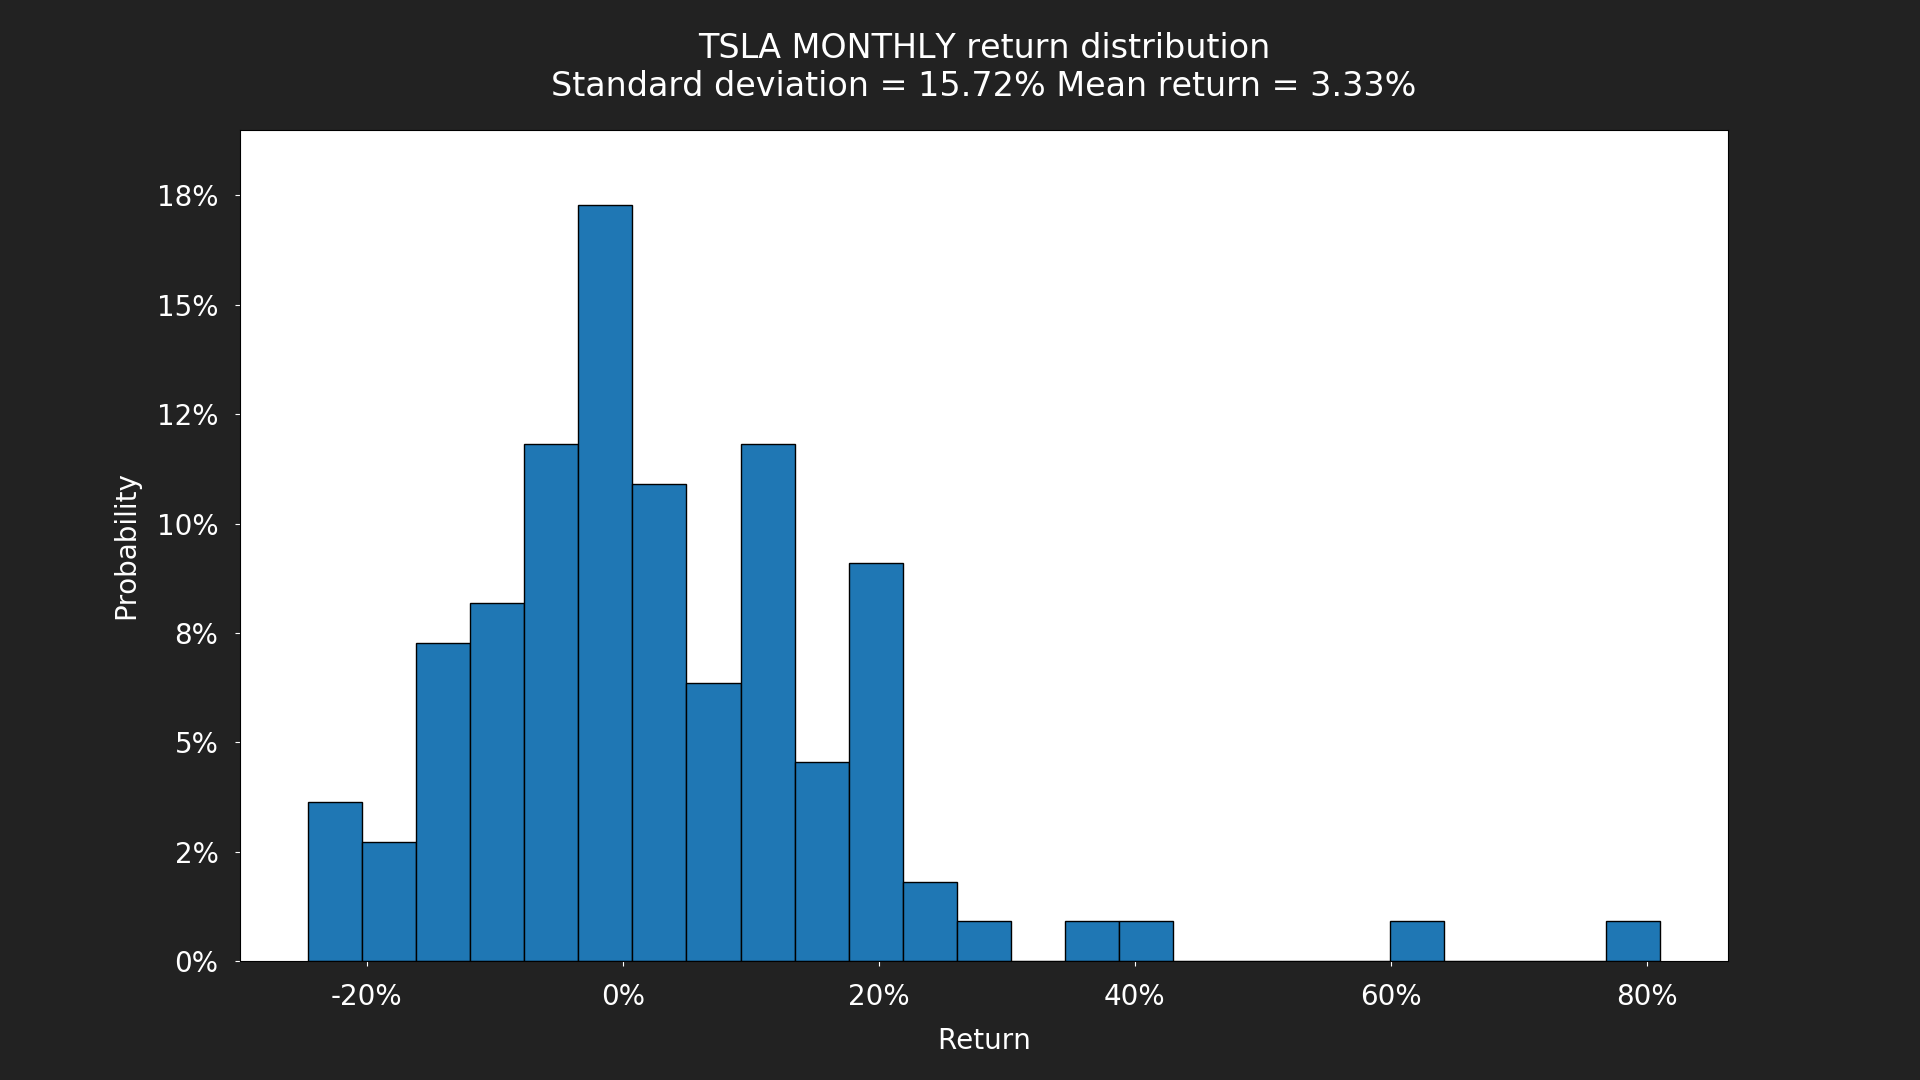
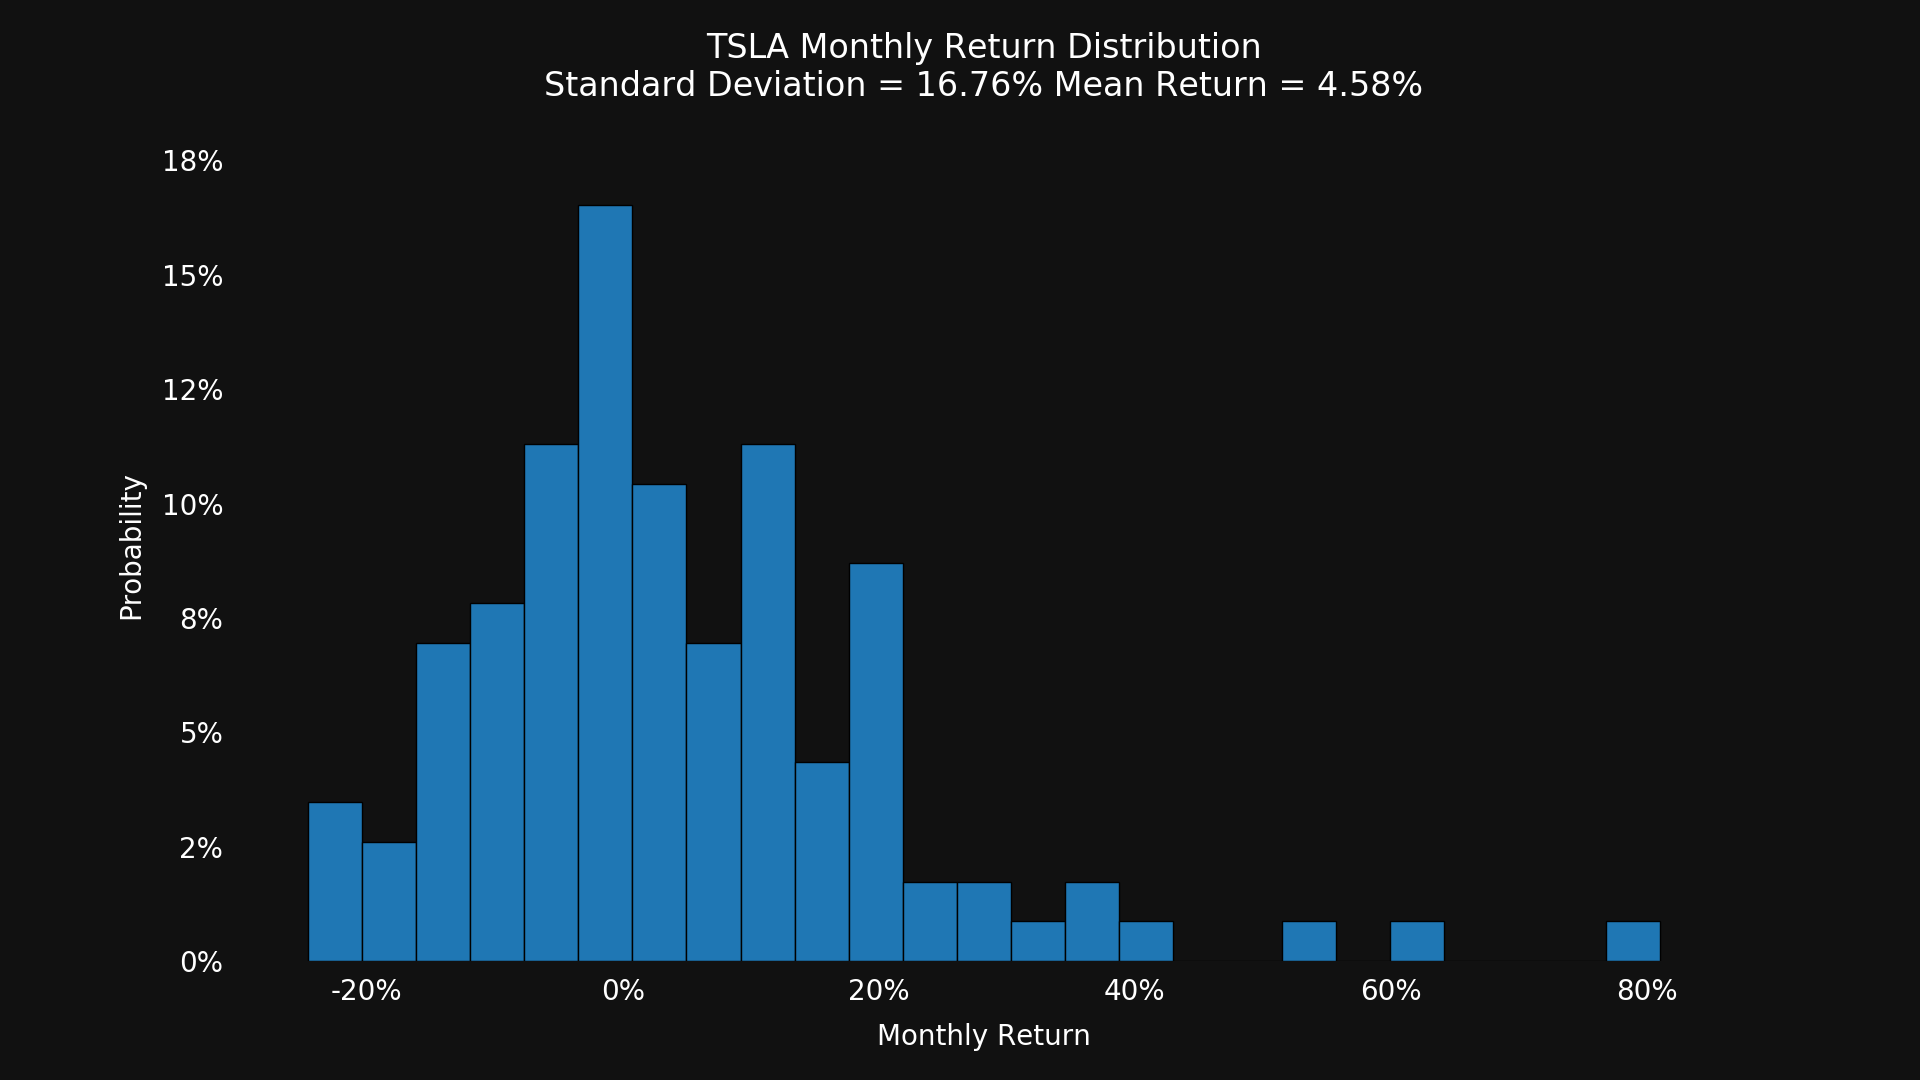
Use stricter typing

diff --git a/alpha_vantage.py b/alpha_vantage.py
@@ -1,10 +1,12 @@
+from dotenv import load_dotenv
+from os.path import join, dirname
+from dateutil import parser
+from enum import Enum
+from typing import List
 import os
 import urllib.request as url_request
 import json
-from dateutil import parser
-from os.path import join, dirname
-from dotenv import load_dotenv
-
+from dataclasses import dataclass
 import ssl
 ssl._create_default_https_context = ssl._create_unverified_context
 
@@ -15,23 +17,38 @@ API_KEY = os.getenv('ALPHA_VANTAGE_KEY')
 REQUEST_TIMEOUT_SECONDS = 20
 
 
-def get_stock_returns_history(symbol, interval):
+class Interval(Enum):
+    DAILY = 'DAILY'
+    WEEKLY = 'WEEKLY'
+    MONTHLY = 'MONTHLY'
+
+
+@dataclass
+class AssetPrice:
+    date: str
+    price: float
+
+
+def get_stock_returns_history(symbol: str,
+                              interval: Interval) -> [float]:
     price_history = get_stock_price_history(symbol, interval, adjusted=True)
 
-    returns = []
+    returns: [float] = []
     prev_price = None
 
-    for price in price_history.values():
+    for item in price_history:
         if prev_price != None:
-            returns.append((price - prev_price) / prev_price)
+            returns.append((item.price - prev_price) / prev_price)
 
-        prev_price = price
+        prev_price = item.price
 
     return returns
 
 
-def get_stock_price_history(symbol, interval, adjusted=False):
-    url = url_for_function('TIME_SERIES_%s' % interval)
+def get_stock_price_history(symbol: str,
+                            interval: Interval,
+                            adjusted=False) -> List[AssetPrice]:
+    url = url_for_function('TIME_SERIES_%s' % interval.value)
 
     if adjusted == True:
         url += '_ADJUSTED'
@@ -42,25 +59,21 @@ def get_stock_price_history(symbol, interval, adjusted=False):
 
     response = url_request.urlopen(url, timeout=REQUEST_TIMEOUT_SECONDS)
     data = json.load(response)
-    meta_key, dates_key = data.keys()
-    dates_data = data[dates_key]
+    prices_json = data[list(data.keys())[1]]
 
-    return {
-        parser.parse(k): float(v[get_stock_price_field_name(adjusted)])
-        for k, v
-        in sorted(dates_data.items())
-    }
+    field_name = '4. close' if adjusted == False else '5. adjusted close'
 
+    prices: List[AssetPrice] = []
 
-def get_stock_price_field_name(adjusted):
-    if adjusted == True:
-        return '5. adjusted close'
-    else:
-        return '4. close'
+    for k, v in sorted(prices_json.items()):
+        prices.append(AssetPrice(date=parser.parse(k),
+                                 price=float(v[field_name])))
+
+    return prices
 
 
-def get_crypto_returns_history(currency, interval):
-    dates, prices = get_crypto_price_history(currency, interval)
+def get_crypto_returns_history(currency: str, interval: Interval):
+    _, prices = get_crypto_price_history(currency, interval)
 
     returns = []
     prev_price = None
@@ -74,15 +87,15 @@ def get_crypto_returns_history(currency, interval):
     return returns
 
 
-def get_crypto_price_history(currency, interval):
-    url = url_for_function('DIGITAL_CURRENCY_%s' % interval)
+def get_crypto_price_history(currency: str, interval: Interval):
+    url = url_for_function('DIGITAL_CURRENCY_%s' % interval.value)
     url += '&apikey=%s' % API_KEY
     url += '&symbol=%s' % currency
     url += '&market=%s' % 'USD'
 
     response = url_request.urlopen(url, timeout=REQUEST_TIMEOUT_SECONDS)
     data = json.load(response)
-    meta_key, dates_key = data.keys()
+    _, dates_key = data.keys()
     dates_data = data[dates_key]
 
     dates = []
@@ -95,5 +108,5 @@ def get_crypto_price_history(currency, interval):
     return (dates, prices)
 
 
-def url_for_function(function):
+def url_for_function(function: str):
     return f'https://www.alphavantage.co/query?function={function}'

diff --git a/variance.py b/variance.py
@@ -6,10 +6,11 @@ import pathlib
 import matplotlib.style as style
 
 import alpha_vantage
+from alpha_vantage import Interval
 import plot_style
 
 
-def show_variance(symbol, interval='MONTHLY'):
+def show_variance(symbol, interval=Interval.MONTHLY):
     returns = alpha_vantage.get_stock_returns_history(symbol, interval)
     variance = np.var(returns)
     standard_deviation = np.sqrt(variance)
@@ -17,7 +18,7 @@ def show_variance(symbol, interval='MONTHLY'):
 
     plot_style.hist()
 
-    n, bins, patches = plt.hist(returns, density=True, bins=25)
+    n, _, patches = plt.hist(returns, density=True, bins=25)
 
     for item in patches:
         item.set_height(item.get_height() / sum(n))
@@ -31,11 +32,11 @@ def show_variance(symbol, interval='MONTHLY'):
     plt.gca().set_yticklabels(['{:.0f}%'.format(y*100)
                                for y in plt.gca().get_yticks()])
 
-    title_line_1 = f'{symbol} {interval} return distribution'
-    title_line_2 = 'Standard deviation = %.2f%% Mean return = %.2f%%' % (
+    title_line_1 = f'{symbol.upper()} {interval.value.lower().capitalize()} Return Distribution'
+    title_line_2 = 'Standard Deviation = %.2f%% Mean Return = %.2f%%' % (
         standard_deviation * 100, mean_return * 100)
     plt.title(f'{title_line_1}\n{title_line_2}')
-    plt.xlabel('Return')
+    plt.xlabel(f'{interval.value.lower().capitalize()} Return')
     plt.ylabel('Probability')
 
     pathlib.Path('img/variance').mkdir(parents=True, exist_ok=True)

diff --git a/history.py b/history.py
@@ -3,19 +3,22 @@ import pathlib
 import matplotlib.pyplot as plt
 
 import alpha_vantage
+from alpha_vantage import Interval
 import plot_style
 
 
-def show_history(symbol: str, interval='MONTHLY'):
+def show_history(symbol: str):
     data = alpha_vantage.get_stock_price_history(
         symbol,
-        interval,
+        Interval.MONTHLY,
         adjusted=False
     )
 
     plot_style.line()
     plt.title(f'{symbol.upper()} Price History')
-    plt.plot(list(data.keys()), list(data.values()))
+    plt.plot(
+        list(i.date for i in data),
+        list(i.price for i in data))
 
     pathlib.Path('img/history').mkdir(parents=True, exist_ok=True)
     plt.savefig(f'img/history/{symbol.lower()}.png')

diff --git a/README.md b/README.md
@@ -39,7 +39,7 @@ display -update 1 img/history/spx.png
 ## Plotting Variance
 
 ```bash
-python variance.py TSLA
+python variance.py tsla
 ```
 
 ![Variance](/example-images/variance.png)
